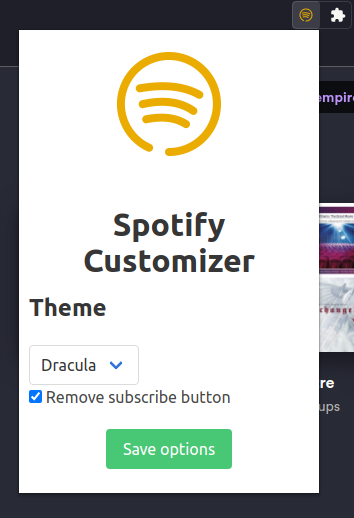
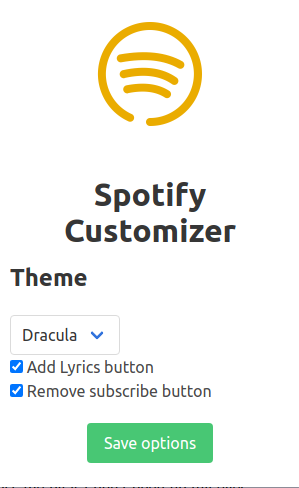
add lyrics options

diff --git a/background.js b/background.js
@@ -1,9 +1,10 @@
 chrome.tabs.onUpdated.addListener((tabId, changeInfo, tab) => {
     if (changeInfo.status === 'complete' && /^http/.test(tab.url)) {
-        chrome.storage.sync.get(["themeSelected", "blockSubscribeButton"], function (obj) {
+        chrome.storage.sync.get(["themeSelected", "blockSubscribeButton", "addLyricsButton"], function (obj) {
             
             let themeSelected = obj ? obj.themeSelected : "default.css";
             let blockSubscribeButton = obj && typeof obj.blockSubscribeButton === 'boolean' ? obj.blockSubscribeButton : true;
+            let addLyricsButton = obj && typeof obj.addLyricsButton === 'boolean' ? obj.addLyricsButton : true;
 
             if (blockSubscribeButton == true) {
                 chrome.scripting.insertCSS({
@@ -12,6 +13,17 @@ chrome.tabs.onUpdated.addListener((tabId, changeInfo, tab) => {
                 })
                 .then(() => {
                     console.log("Subscribe button removed");
+                })
+                .catch(err => console.log(err));
+            }
+
+            if (addLyricsButton == true) {
+                chrome.scripting.executeScript({
+                    target: {tabId: tabId},
+                    files: ['addLyrics.js'],
+                })
+                .then(() => {
+                    console.log("Lyrics button added");
                 })
                 .catch(err => console.log(err));
             }
@@ -25,18 +37,5 @@ chrome.tabs.onUpdated.addListener((tabId, changeInfo, tab) => {
             })
             .catch(err => console.log(err));
         });
-    
-    
-
-
-        chrome.scripting.executeScript(
-            {
-              target: {tabId: tabId},
-              files: ['addLyrics.js'],
-            }
-        )
-        
-    
-    
     }
 });

diff --git a/options.js b/options.js
@@ -1,10 +1,12 @@
 async function save_options() {
     let themeSelected = document.getElementById('themeSelector').value;
     let blockSubscribeButton = document.getElementById('blockSubscribeButton').checked;
+    let addLyricsButton = document.getElementById('addLyricsButton').checked;
 
     chrome.storage.sync.set({
         themeSelected: themeSelected,
         blockSubscribeButton: blockSubscribeButton,
+        addLyricsButton: addLyricsButton,
     }, function() {
         // Update status to let user know options were saved.
         let status = document.getElementById('status');
@@ -25,12 +27,13 @@ function restore_options() {
     // Use default value
     chrome.storage.sync.get({
         themeSelected: "default.css",
-        blockSubscribeButton: true
+        blockSubscribeButton: true,
+        addLyricsButton: true
     }, function(items) {
         console.log(items)
         document.getElementById('themeSelector').value = items.themeSelected;
         document.getElementById('blockSubscribeButton').checked = items.blockSubscribeButton;
-
+        document.getElementById('addLyricsButton').checked = items.addLyricsButton;
     });
 }
 document.addEventListener('DOMContentLoaded', restore_options);

diff --git a/addLyrics.js b/addLyrics.js
@@ -114,9 +114,6 @@ function myCallback() {
     }
 }
 
-// https://www.azlyrics.com/lyrics/naps/carrevip.html
-// https://www.azlyrics.com/lyrics/Naps/CarreVIP.html
-
 function createLyricsObject(url) {
     const iframe = document.createElement("iframe");
     iframe.id = "lyricsObject"
@@ -128,12 +125,12 @@ function createLyricsObject(url) {
 
     document.getElementById("lyricsContainer").append(iframe)
 
-
 // obj.addEventListener("load", function() {
 //     document.getElementById("onetrust-banner-sdk").remove()
 // });
 
 }
+
 
 // Create the lyrics container
 const div = document.createElement("div");
@@ -147,9 +144,9 @@ div.style.paddingBottom = "90px";
 div.style.right = "0"
 div.style.transition = "max-height 1000ms ease-in-out";
 
-
 const mainView = document.getElementsByClassName("Root__main-view");
 mainView[0].appendChild(div);
+
 
 // Add the button
 buttonContainer = document.getElementsByClassName("ExtraControls")[0]

diff --git a/options.html b/options.html
@@ -26,6 +26,11 @@
             </div>
 
             <div>
+                <input type="checkbox" id="addLyricsButton">
+                Add Lyrics button
+            </div>
+
+            <div>
                 <input type="checkbox" id="blockSubscribeButton">
                 Remove subscribe button
             </div>

diff --git a/README.md b/README.md
@@ -16,6 +16,10 @@ Chrome extension to customize Spotify web client.
 
 <img src="assets/Picture3.png" width="600"/>
 
+### Lyrics
+
+<img src="assets/Picture4.png" width="600"/>
+
 ## Installation
 
 **CHROME**
@@ -27,6 +31,7 @@ Chrome extension to customize Spotify web client.
 
 ## Features
 * Remove subscribe button
+* Add Lyrics
 * Change the theme
 
 ## Options
